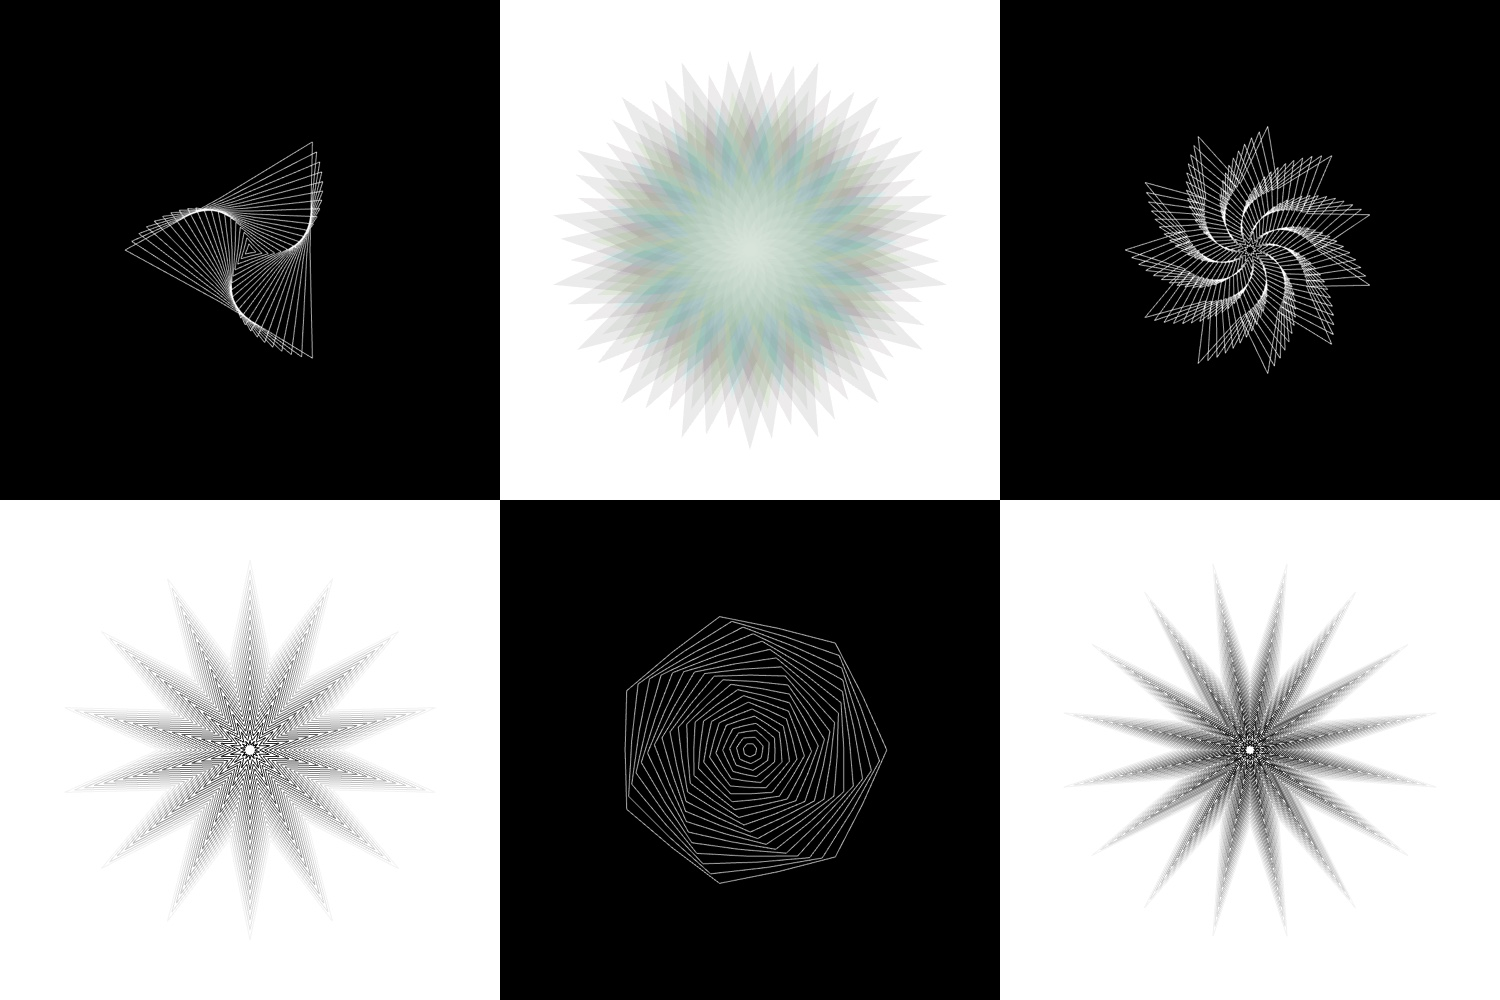
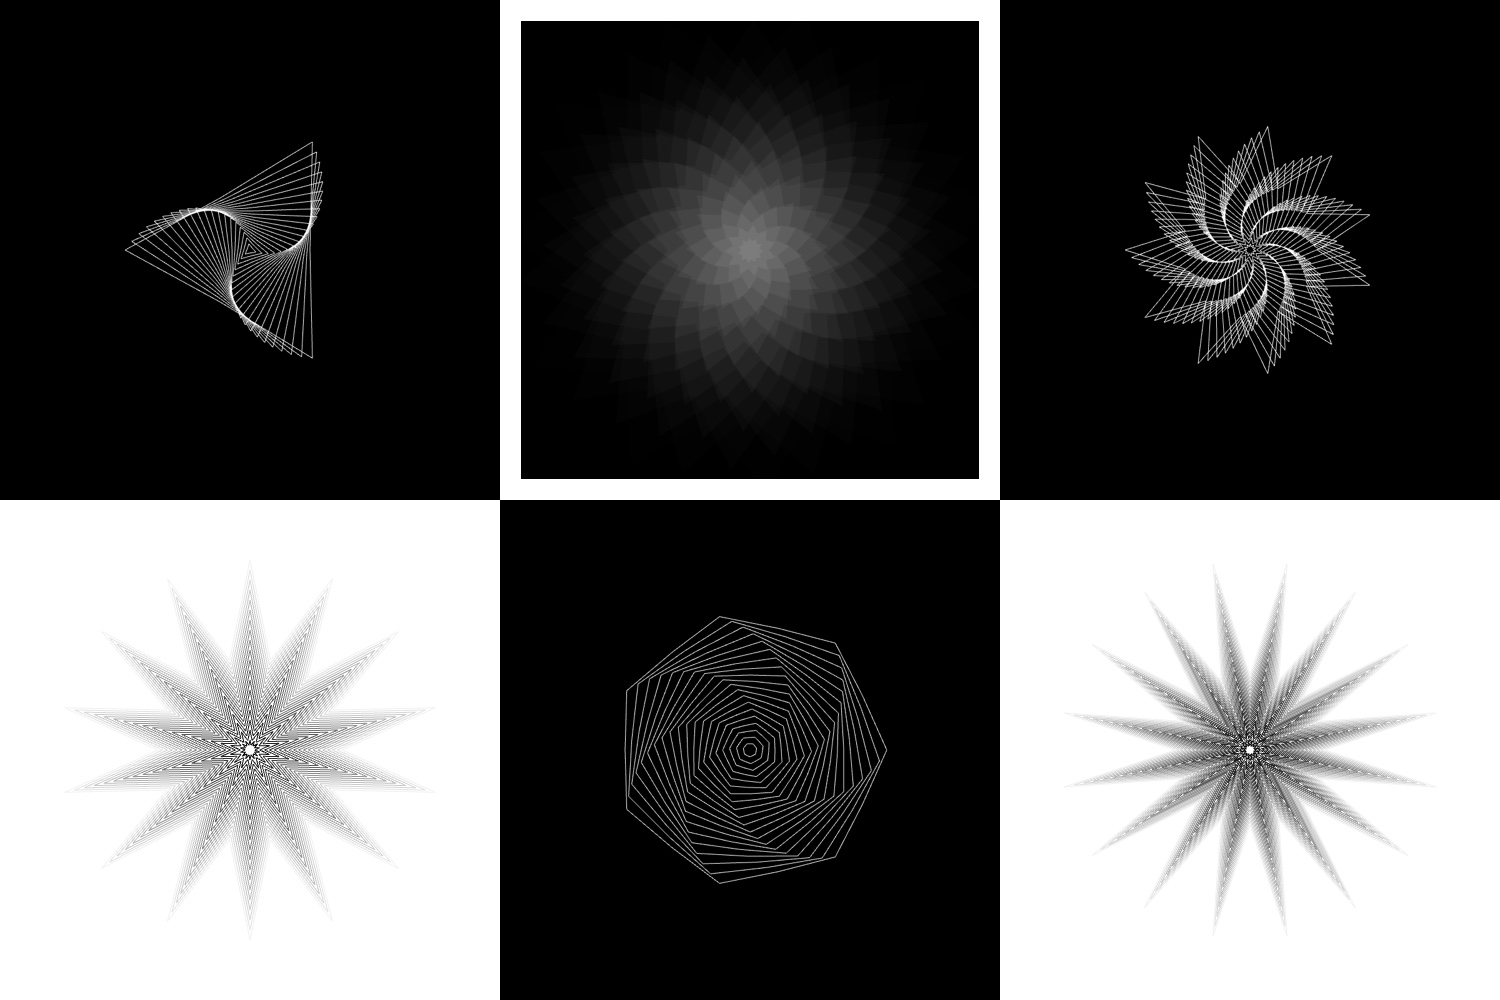
readmeme

Changed region(s): [[0.3373, 0.0, 0.6747, 0.496]]

diff --git a/README.md b/README.md
@@ -61,7 +61,7 @@ make RunRelease
 
 ## Week 3 : Mandala
 
-![alt text](w3_hw_mandala/bin/data/artboard.pdf)
+![alt text](w3_hw_mandala/bin/data/artboard.jpg)
 
 <!-- ### And coding style tests
 
